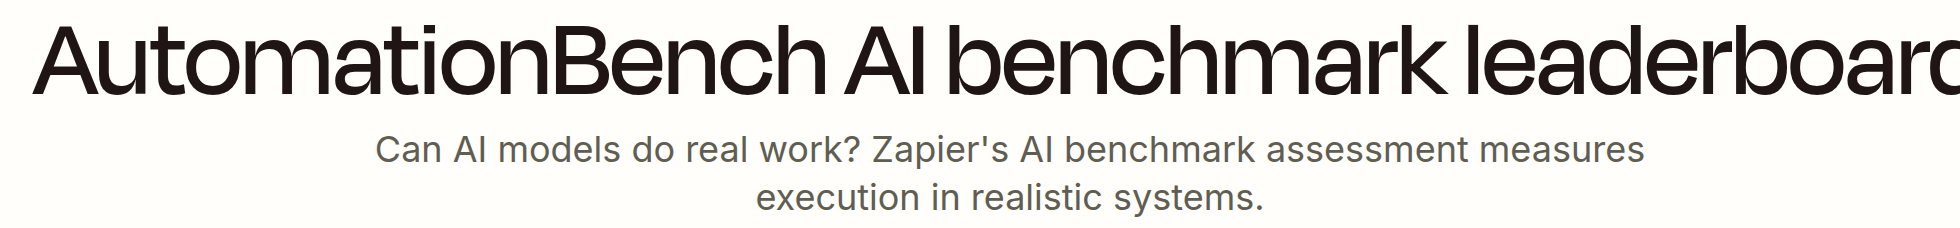
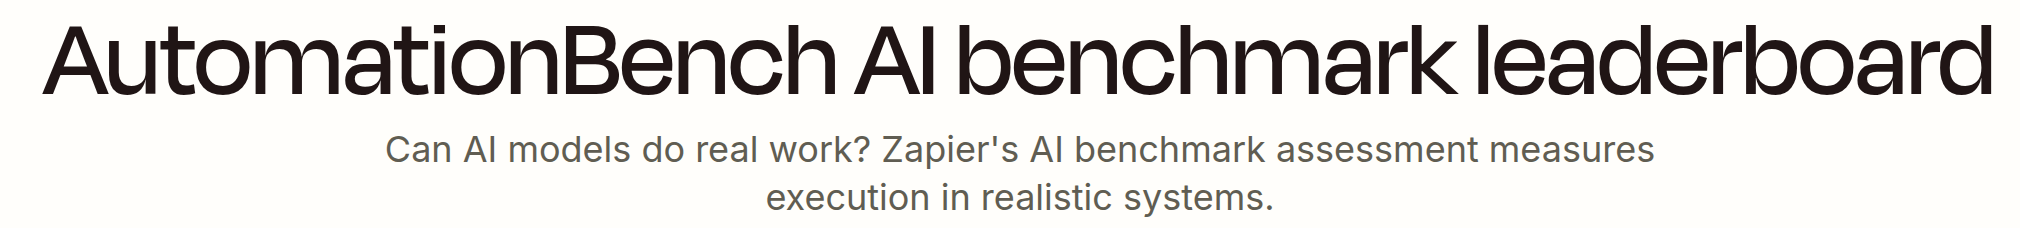
Autosave: work in progress (15:23Z)
Claude-Session: https://claude.ai/code/session_01Gs6nrmAXs29Kx7ERy8wBV7

diff --git a/ai-safety-presentation/tools/slides_work.js b/ai-safety-presentation/tools/slides_work.js
@@ -26,6 +26,16 @@ function gifScaled(file, width) {
   return out;
 }
 
+// GIF trimmed (and scaled) from a research MP4: input range [ss, to) at fps/width, per-frame palettes. Trim/scale only.
+function mp4Gif(file, name, { ss, to, width, fps }) {
+  const out = path.join(MEDIA, name);
+  if (fs.existsSync(out)) return out;
+  fs.mkdirSync(MEDIA, { recursive: true });
+  execFileSync('ffmpeg', ['-v', 'error', '-y', '-ss', String(ss), '-to', String(to), '-i', R2(file), '-filter_complex', `fps=${fps},scale=${width}:-2:flags=lanczos,${PAL}`, '-loop', '0', out]);
+  execFileSync('gifsicle', ['-b', '-O3', out], { stdio: 'ignore' });
+  return out;
+}
+
 // Quiz clip: the RA-Bench research MP4 as a looping GIF whose loop STARTS at frame k (frames k…end, then 0…k−1).
 // Nothing else changes: same frames, same 24 fps, same hard cut at the clip end. Both clips of a pair use the same k,
 // so they stay in sync, and a static preview shows a mid-clip frame instead of the first frame both clips share.
@@ -201,7 +211,7 @@ async function hwDesignSlide(d) {
   // left: 2×2 wall of real demo media (GIFs play in slideshow)
   const gw = 7.55, gap = 0.2, tw = (gw - gap) / 2, th = tw * 9 / 16, gy = 1.8;
   const cells = [
-    [R2('cad-autodesk-mcp-enclosure.gif'), 'CAD · AUTODESK FUSION + CLAUDE OPUS 4.8', 'One chat request → a two-part molded Raspberry Pi case'],
+    [R2('cad-autodesk-mcp-enclosure.gif'), 'CAD · AUTODESK FUSION + CLAUDE OPUS 4.8', 'One chat request → a molded Raspberry Pi case'],
     [R2('cad-autodesk-mcp-mold-toolpaths.gif'), 'CAM · SAME AGENT, NEXT REQUEST', '…then the mold and the CNC toolpaths to cut it'],
     [R2('pcb-astra-kicad-hackaday.jpg'), 'PCB · GPT-6 ASTRA IN KICAD (OPENAI DEMO)', 'Schematic → placed, routed, manufacturable board'],
     [R2('pcb-quilter-speedrun-board-360.gif'), 'PCB · QUILTER “PROJECT SPEEDRUN”', '843-part Linux computer — booted on first power-up'],
@@ -237,7 +247,7 @@ async function hwDesignSlide(d) {
   d.animate(s, [...st], { effect: 'rise', dur: 450 });
   d.animate(s, [chips], { auto: true, effect: 'fade', after: 300 });
 
-  d.source(s, 'Sources: Autodesk Fusion blog & demo videos (Sep 15, 2026) · OpenAI GPT-6 Astra demo still via Hackaday (Sep 5, 2026) · Quilter (Dec 2025) · EEBench leaderboard (atopile, Sep 29, 2026) · HWE-Bench, arXiv 2604.14709.');
+  d.source(s, 'Sources: Autodesk Fusion blog & demos (Sep 15, 2026) · OpenAI demo still via Hackaday (Sep 5, 2026) · Quilter (Dec 2025) · EEBench (atopile, Sep 29, 2026) · HWE-Bench (arXiv 2604.14709).');
   s.addNotes([
     'Four real demos of AI doing hardware design. Top row (Autodesk’s official demo of its new Fusion Compute MCP, Sep 15, 2026): an agent — the model selector in the video reads “Opus 4.8 High” (Claude) — is asked to design a two-part injection-molded enclosure for a Raspberry Pi 4; it builds the parametric case, then a family mold with core and cavity, then programs the CNC toolpaths. Autodesk: “That is a design-to-manufacturing chain that normally requires several people over several days, now driven end to end from a chat window.” (Autodesk’s own demo.)',
     'Bottom left: still from OpenAI’s GPT-6 Astra launch demo (image via Hackaday). OpenAI’s caption: “a 15-second condensed playback of GPT-6 Astra performing printed circuit board (PCB) layout in KiCad, turning an electronic schematic into a manufacturable PCB by placing components and routing copper connections” (a 2 min 54 s run). The clip itself could not be downloaded (Cloudflare/Vimeo), so this is the still. JLCPCB independently had Astra design a 44 × 34 mm amplifier board from a four-line brief: 0 ERC / 0 DRC violations under the configured rules (caveat: some rule categories were ignored, and a clean DRC is not a manufacturability check). Hackaday’s verdict was skeptical: “there is still a long way to go before hardware engineers can receive their pink slips.”',
@@ -330,10 +340,11 @@ async function aleSlide(d) {
   const c1 = await frameW(d, s, hero, CX0, 1.82, lw);
   const gy = 1.82 + await hFor(hero, lw) + 0.24;
   const gh = 6.5 - gy - 0.32, gwid = gh * 16 / 9;
-  const gif = await tile(d, s, R2('labor-ale-intro-agent-wall.gif'), { x: CX0, y: gy, w: gwid, h: gh }, null);
+  const aleGif = mp4Gif('labor-ale-intro.mp4', 'labor-ale-agents-70s.gif', { ss: 70.5, to: 75.2, width: 960, fps: 15 });
+  const gif = await tile(d, s, aleGif, { x: CX0, y: gy, w: gwid, h: gh }, null);
   const gcap = d.text(s, [
     { text: '►  ', options: { color: d.S.red, bold: true } },
-    { text: 'Official ALE video: agents operating real professional software — CAD, audio, X-ray viewers, spreadsheets, ERP', options: { color: d.S.muted } },
+    { text: 'Official ALE video: agents at work in real professional software', options: { color: d.S.muted } },
   ], { x: CX0, y: gy + gh + 0.05, w: lw, h: 0.26, fontSize: 10, valign: 'top' });
 
   // right: hardest tier — launch agents still at 0%, today's at up to 15.8% (same 38 tasks)
@@ -372,7 +383,7 @@ async function aleSlide(d) {
     'Today (live leaderboard, accessed Oct 4, 2026): on that same hardest “Last-Exam” split (38 tasks), Claude Opus 5.5 in Claude Code (max effort) passes 15.8% (6 of 38); Claude Opus 5 and GPT-6 Sol 13.2%; GPT-6 Astra (High) 10.5%. The June launch configurations (Claude Code + Fable 5 at default effort, Codex + GPT-5.5 default, Cursor + Composer 2.5) still show 0.0% on the same split — so the jump from 0% is on the same task set. (Fable 5 at XHigh effort now shows 7.9%.) Leaderboard entries are not dated, so “four months” is launch-to-today.',
     'Overall (152 public tasks): Claude Opus 5.5 38.2% pass rate (63.2% partial credit), GPT-6 Astra 34.2%; in June the best overall was 24.0% (GPT-5.5). Taking the best run per task across all agents gives 56.6%. “Pass rate” = share of runs with a perfect score.',
     'Caveat from the launch post: the most common failure is agents declaring success before verifying their work — “Done. All checks pass.” when files are missing or counts are wrong.',
-    'Left: official homepage (crop) and a 6-second excerpt (trimmed/scaled only) of the official intro video showing a wall of agent sessions in real desktop software. The GIF plays in slideshow mode.',
+    'Left: official homepage (crop) and a 4.7-second excerpt (0:70.5–0:75.2, trimmed/scaled only) of the official 80-second intro video: four agent sessions in real desktop software (CAD, an audio workstation, spreadsheets…), then the camera pulls back to a wall of dozens of sessions. The GIF plays in slideshow mode.',
     'URLs: https://agents-last-exam.org/ · https://agents-last-exam.org/leaderboard · https://rdi.berkeley.edu/blog/agents-last-exam/ · https://arxiv.org/abs/2606.05405 · video: https://agents-last-exam.org/videos/ale-intro.mp4',
   ].join('\n\n'));
   return s;
@@ -384,7 +395,7 @@ async function paidWorkSlide(d) {
   head(s, 'THE ACCELERATION · LABOR · 2', 'Real paid work: AI’s success rate is soaring');
 
   const colW = (CW - 0.45) / 2, ax = CX0, bx = CX0 + colW + 0.45;
-  const zap = await crop('rev2/labor-automationbench-leaderboard-top10.png', 'labor-zapier-head.png', { l: 190, t: 10, w: 1960, h: 228 });
+  const zap = await crop('rev2/labor-automationbench-leaderboard-top10.png', 'labor-zapier-head.png', { l: 180, t: 10, w: 2020, h: 228 });
   const cais = await crop('rev2/labor-rli-cais-blog-header.png', 'labor-cais-rli-head.png', { l: 70, t: 40, w: 1820, h: 360 });
   const cw = colW - 0.3;
   const hz = await hFor(zap, cw), hc = await hFor(cais, cw), hb = Math.max(hz, hc);
@@ -399,10 +410,10 @@ async function paidWorkSlide(d) {
       chartColors: [HEX.red], lineSize: 3, lineDataSymbolSize: 7, showValue: true, dataLabelFormatCode: '0"%"', dataLabelPosition: 't',
       dataLabelFontSize: 11, valAxisMinVal: 0, valAxisMaxVal: 60, valAxisMajorUnit: 20, valAxisLabelFormatCode: '0"%"', catAxisLabelFontSize: 11,
     });
-  const sa = d.text(s, [
-    { text: '~4×  ', options: { fontSize: 30, bold: true, color: d.S.red, fontFace: 'Arial' } },
-    { text: 'in five months on identical tasks: April’s leader Opus 4.7 scores 13.4%, Gemini 4 Argon 51.3%. Business workflows in 47 real apps, strict pass/fail.', options: { fontSize: 13, color: d.S.muted } },
-  ], { x: ax, y: cy + chH + 0.1, w: colW, h: 0.85, valign: 'top' });
+  const sy = cy + chH + 0.14;
+  const big = (x, v) => d.text(s, v, { x, y: sy, w: 1.05, h: 0.56, fontSize: 32, bold: true, color: d.S.red, fontFace: 'Arial', valign: 'top' });
+  const lbl = (x, t) => d.text(s, t, { x: x + 1.1, y: sy + 0.04, w: colW - 1.1, h: 0.82, fontSize: 13, color: d.S.muted, valign: 'top' });
+  const sa = [big(ax, '~4×'), lbl(ax, 'in five months on identical tasks: April’s leader Opus 4.7 scores 13.4%, Gemini 4 Argon 51.3%. Business workflows in 47 real apps; strict pass/fail.')];
 
   // B: Remote Labor Index — best automation rate over time (240 real freelance projects, human-judged)
   const lb = capLabel(d, s, 'REMOTE LABOR INDEX (CAIS + SCALE) · BEST AUTOMATION RATE', { x: bx, y: ly, w: colW, charSpacing: 1 });
@@ -412,19 +423,16 @@ async function paidWorkSlide(d) {
       dataLabelFontSize: 12, dataLabelFontBold: true, valAxisHidden: true, valGridLine: { style: 'none' }, valAxisMinVal: 0, valAxisMaxVal: 25,
       catAxisLabelFontSize: 11, barGapWidthPct: 55,
     });
-  const sb = d.text(s, [
-    { text: '8×  ', options: { fontSize: 30, bold: true, color: d.S.red, fontFace: 'Arial' } },
-    { text: 'in under a year. 240 real freelance jobs (3D, design, video, data…) worth $144K, each judged by humans against a paid professional’s work.', options: { fontSize: 13, color: d.S.muted } },
-  ], { x: bx, y: cy + chH + 0.1, w: colW, h: 0.85, valign: 'top' });
+  const sb = [big(bx, '8×'), lbl(bx, 'in under a year. 240 real freelance jobs (3D, design, video, data…) worth $144K, each judged by humans against a paid professional’s work.')];
 
   d.animate(s, c1, { auto: true, effect: 'rise', dur: 450 });
   d.animate(s, [la, ca], { auto: true, effect: 'wipeLeft', dur: 1100, after: 100 });
-  d.animate(s, [sa], { auto: true, effect: 'fade', after: 100 });
+  d.animate(s, sa, { auto: true, effect: 'fade', after: 100 });
   d.animate(s, c2, { effect: 'rise', dur: 450 });
   d.animate(s, [lb, cb], { auto: true, effect: 'wipeLeft', dur: 1000, after: 100 });
-  d.animate(s, [sb], { auto: true, effect: 'fade', after: 100 });
+  d.animate(s, sb, { auto: true, effect: 'fade', after: 100 });
 
-  d.source(s, 'Sources: Zapier AutomationBench leaderboard v1.0.6 (accessed Oct 4, 2026), arXiv 2604.18934 · CAIS, “A Significant Increase in Digital Labor Automation” (Jul 1, 2026), Scale Labs RLI leaderboard (Oct 4, 2026), arXiv 2510.26787.');
+  d.source(s, 'Sources: Zapier AutomationBench v1.0.6 (accessed Oct 4, 2026) & arXiv 2604.18934 · CAIS blog (Jul 1, 2026) & Scale Labs RLI leaderboard (Oct 4, 2026) · arXiv 2510.26787.');
   s.addNotes([
     'Two benchmarks built from real, paid work. Left — AutomationBench (Zapier, Apr 21, 2026): 600+ held-out business workflows across Sales, Marketing, Operations, Support, Finance and HR in 47 simulated apps (CRM, inbox, calendars…), built on patterns from Zapier’s 2B+ monthly tasks across 3.7M companies; strict scoring — every end-state assertion must hold (“mostly-right is still wrong”); “No LLM-as-judge.”',
     'At launch: “Even the best frontier models currently score below 10%” (Opus 4.7 9.9%). Today (leaderboard v1.0.6): Gemini 4 Argon (High) 51.29%, Claude Sonnet 5.5 44.75%, Claude Opus 5.5 42.47%, GPT 6 Astra (Max) 41.4%. Zapier re-runs every model when the version changes, so compare within v1.0.6: April’s leader Opus 4.7 scores 13.39% on v1.0.6 vs 51.29% for Gemini 4 Argon (Sep 2026) — ~4x in five months. The chart is the best v1.0.6 score among models released up to each month (our compilation; release months from Artificial Analysis / Wikipedia).',
@@ -460,7 +468,7 @@ async function gdpvalSlide(d) {
   const lab = capLabel(d, s, 'GDPVAL · DELIVERABLE JUDGED AS GOOD AS OR BETTER THAN AN EXPERT’S', { x: CX0, y: 1.72, w: lw, charSpacing: 1 });
   const box = { x: CX0 - 0.1, y: 1.98, w: lw + 0.1, h: 3.55 };
   const L = { x: 0.07, y: 0.07, w: 0.92, h: 0.72 };
-  const labels = ['GPT-4o (2024)', 'o3 (Apr ’25)', 'GPT-5 (Aug ’25)', 'Opus 4.1 (Sep ’25)', 'GPT-5.2 (Dec ’25)', 'GPT-5.4 (Mar ’26)', 'GPT-5.5 (Apr ’26)'];
+  const labels = ['GPT-4o (2024)', 'o3 (Apr ’25)', 'GPT-5 (Aug ’25)', 'Opus 4.1 (Sep ’25)', 'GPT-5.2 (Dec ’25)', 'GPT-5.4 (Mar ’26)', 'GPT-5.5 (Apr ’26)'].map(l => l.replace(/ (’\d\d\))/, '\u00A0$1'));
   const vals = [12.4, 34.1, 38.8, 47.6, 70.9, 83.0, 84.9];
   const ch = d.chart(s, 'bar', [{ name: 'Wins + ties', labels, values: vals }], box, {
     barDir: 'col', layout: L, chartColors: vals.map(v => (v >= 50 ? HEX.red : HEX.steel)), showValue: true, dataLabelFormatCode: '0.0"%"',
@@ -882,7 +890,7 @@ async function realQuestionSlide(d) {
   const s = d.slide('Content', { transition: 'fade' });
   head(s, 'THE ACCELERATION · VIDEO · 2', 'Which one is real?');
   const hint = d.text(s, [
-    { text: 'Each column: one real news clip, one AI clip generated', options: { breakLine: true } },
+    { text: 'Each column: one real clip and one AI clip generated', options: { breakLine: true } },
     { text: 'from its first frame (Seedance 2.0). ' },
     { text: 'Vote now.', options: { bold: true, color: d.S.txt } },
   ], { x: 6.6, y: 0.84, w: CX1 - 6.6, h: 0.54, fontSize: 14, color: d.S.muted, align: 'right', valign: 'middle' });
@@ -924,11 +932,12 @@ async function realRevealSlide(d) {
     { text: 'Genuine footage: 71.9%.', options: { color: d.S.muted } },
   ], { x: ox + ip, y: oy + 1.1, w: ow - 2 * ip, h: 0.78, fontSize: 14, valign: 'top' }));
   ov.push(capLabel(d, s, 'JUDGED “REAL” · % OF 53,550 JUDGMENTS', { x: ox + ip, y: oy + 1.9, w: ow - 2 * ip, charSpacing: 1 }));
-  ov.push(d.chart(s, 'bar', [{ name: 'Judged real', labels: ['Real footage', 'Seedance 2.0', 'Kling', 'Runway', 'Open-source'], values: [71.9, 51.9, 47.7, 34.8, 26.3] }],
+  const jr = [['Real footage', 71.9, HEX.teal], ['Seedance 2.0', 51.9, HEX.red], ['Kling', 47.7, HEX.red], ['Runway', 34.8, HEX.steel], ['Open-source avg.', 26.3, HEX.steel]];
+  ov.push(d.chart(s, 'bar', [{ name: 'Judged real', labels: jr.map(r => r[0]).reverse(), values: jr.map(r => r[1]).reverse() }],
     { x: ox + ip - 0.1, y: oy + 2.16, w: ow - 2 * ip + 0.2, h: 1.72 }, {
-      barDir: 'col', chartColors: [HEX.teal, HEX.red, HEX.red, HEX.steel, HEX.steel], showValue: true, dataLabelFormatCode: '0.0', dataLabelPosition: 'outEnd',
-      dataLabelFontSize: 11, dataLabelFontBold: true, valAxisHidden: true, valGridLine: { style: 'none' }, valAxisMaxVal: 88, valAxisMinVal: 0,
-      catAxisLabelFontSize: 10, barGapWidthPct: 40,
+      barDir: 'bar', chartColors: jr.map(r => r[2]).reverse(), showValue: true, dataLabelFormatCode: '0.0"%"', dataLabelPosition: 'outEnd',
+      dataLabelFontSize: 11, dataLabelFontBold: true, valAxisHidden: true, valGridLine: { style: 'none' }, valAxisMaxVal: 92, valAxisMinVal: 0,
+      catAxisLabelFontSize: 11, catAxisLineShow: false, barGapWidthPct: 35,
     }));
   ov.push(d.text(s, 'AI detectors caught 46.0% of fakes — and 1.4% after a simulated social-media re-share.',
     { x: ox + ip, y: oy + 3.92, w: ow - 2 * ip, h: 0.6, fontSize: 11, color: d.S.muted, italic: true, valign: 'top' }));
